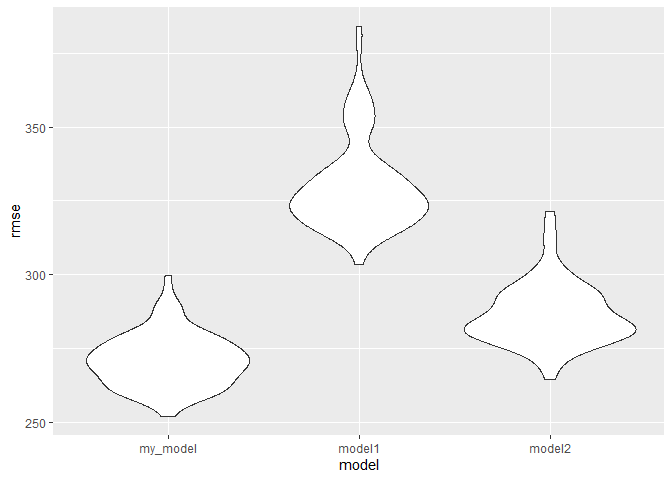
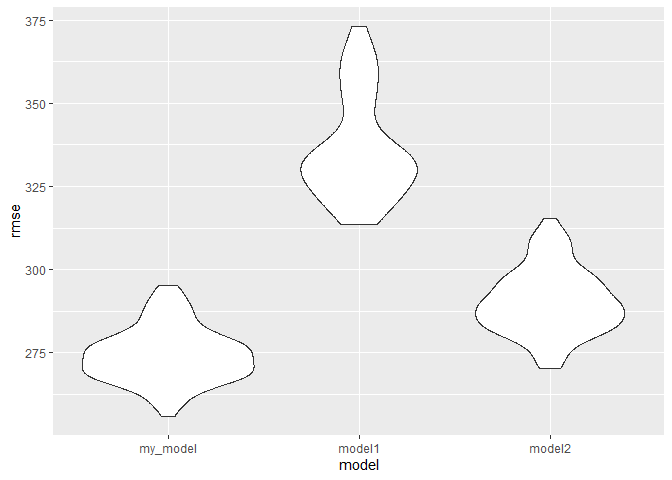
first pass at problem 2

diff --git a/p8105_hw6_dtw2127.md b/p8105_hw6_dtw2127.md
@@ -41,17 +41,6 @@ impact birth weight. We would also expect baby’s head circumference,
 baby length to be associated with birth weight.
 
 ``` r
-library(MASS)
-```
-
-    ## 
-    ## Attaching package: 'MASS'
-
-    ## The following object is masked from 'package:dplyr':
-    ## 
-    ##     select
-
-``` r
 full.model <- lm(bwt  ~., data = birthweight)
 
 step.model <- stepAIC(full.model, direction = "backward", 
@@ -205,19 +194,19 @@ Next let’s compute root mean squared errors (RMSEs).
 rmse(my_model, test_df)
 ```
 
-    ## [1] 271.1228
+    ## [1] 299.5367
 
 ``` r
 rmse(model1, test_df)
 ```
 
-    ## [1] 319.113
+    ## [1] 335.0895
 
 ``` r
 rmse(model2, test_df)
 ```
 
-    ## [1] 288.2257
+    ## [1] 314.2211
 
 Based off the RMSEs, it suggests that my_model works the best.
 
@@ -238,7 +227,12 @@ cv_df =
   mutate(
     rmse_my_model = map2_dbl(my_model, test, ~rmse(model = .x, data = .y))
     )
+```
 
+    ## Warning in predict.lm(model, data): prediction from a rank-deficient fit may be
+    ## misleading
+
+``` r
 cv_df = 
   cv_df %>% 
   mutate(
@@ -277,3 +271,82 @@ cv_df %>%
 
 Based on these plots, it appears that my_model is the best, followed by
 model2.
+
+## Problem 2
+
+First we download the 2017 Central Park weather data.
+
+``` r
+weather_df = 
+  rnoaa::meteo_pull_monitors(
+    c("USW00094728"),
+    var = c("PRCP", "TMIN", "TMAX"), 
+    date_min = "2017-01-01",
+    date_max = "2017-12-31") %>%
+  mutate(
+    name = recode(id, USW00094728 = "CentralPark_NY"),
+    tmin = tmin / 10,
+    tmax = tmax / 10) %>%
+  dplyr::select(name, id, everything())
+```
+
+    ## Registered S3 method overwritten by 'hoardr':
+    ##   method           from
+    ##   print.cache_info httr
+
+    ## using cached file: C:\Users\Dee\AppData\Local/Cache/R/noaa_ghcnd/USW00094728.dly
+
+    ## date created (size, mb): 2021-10-05 10:32:13 (7.617)
+
+    ## file min/max dates: 1869-01-01 / 2021-10-31
+
+We’ll use 5000 bootstrap samples to generate estimates for r2_hat and
+log(B0_hat and B1_hat).
+
+``` r
+model = lm(tmax~tmin, data = weather_df) %>% 
+  broom::glance()
+```
+
+``` r
+boot_straps_r_squared = 
+  weather_df %>% 
+  modelr::bootstrap(n = 5) %>% 
+  mutate(
+    models = map(strap, ~lm(tmax ~ tmin, data = .x) ),
+    results = map(models, broom::glance)) %>% 
+  dplyr::select(-strap, -models) %>% 
+  unnest(results) %>% 
+  summarize(ci_lower = quantile(r.squared, 0.025),
+            ci_upper = quantile(r.squared, 0.975)) 
+
+print(boot_straps_r_squared)
+```
+
+    ## # A tibble: 1 x 2
+    ##   ci_lower ci_upper
+    ##      <dbl>    <dbl>
+    ## 1    0.890    0.918
+
+``` r
+boot_straps_logb0b1 = 
+  weather_df %>% 
+  modelr::bootstrap(n = 5) %>% 
+  mutate(
+    models = map(strap, ~lm(tmax ~ tmin, data = .x) ),
+    results = map(models, broom::tidy)) %>% 
+  dplyr::select(-strap, -models) %>% 
+  unnest(results) %>% 
+  mutate(log_estimate = log(estimate)) %>% 
+  group_by(.id) %>% 
+  summarize(logb0b1 = prod(log_estimate)) %>% 
+  summarize(ci_lower = quantile(logb0b1, 0.025),
+            ci_upper = quantile(logb0b1, 0.975))
+
+print(boot_straps_logb0b1)
+```
+
+    ## # A tibble: 1 x 2
+    ##   ci_lower ci_upper
+    ##      <dbl>    <dbl>
+    ## 1   0.0506    0.102
